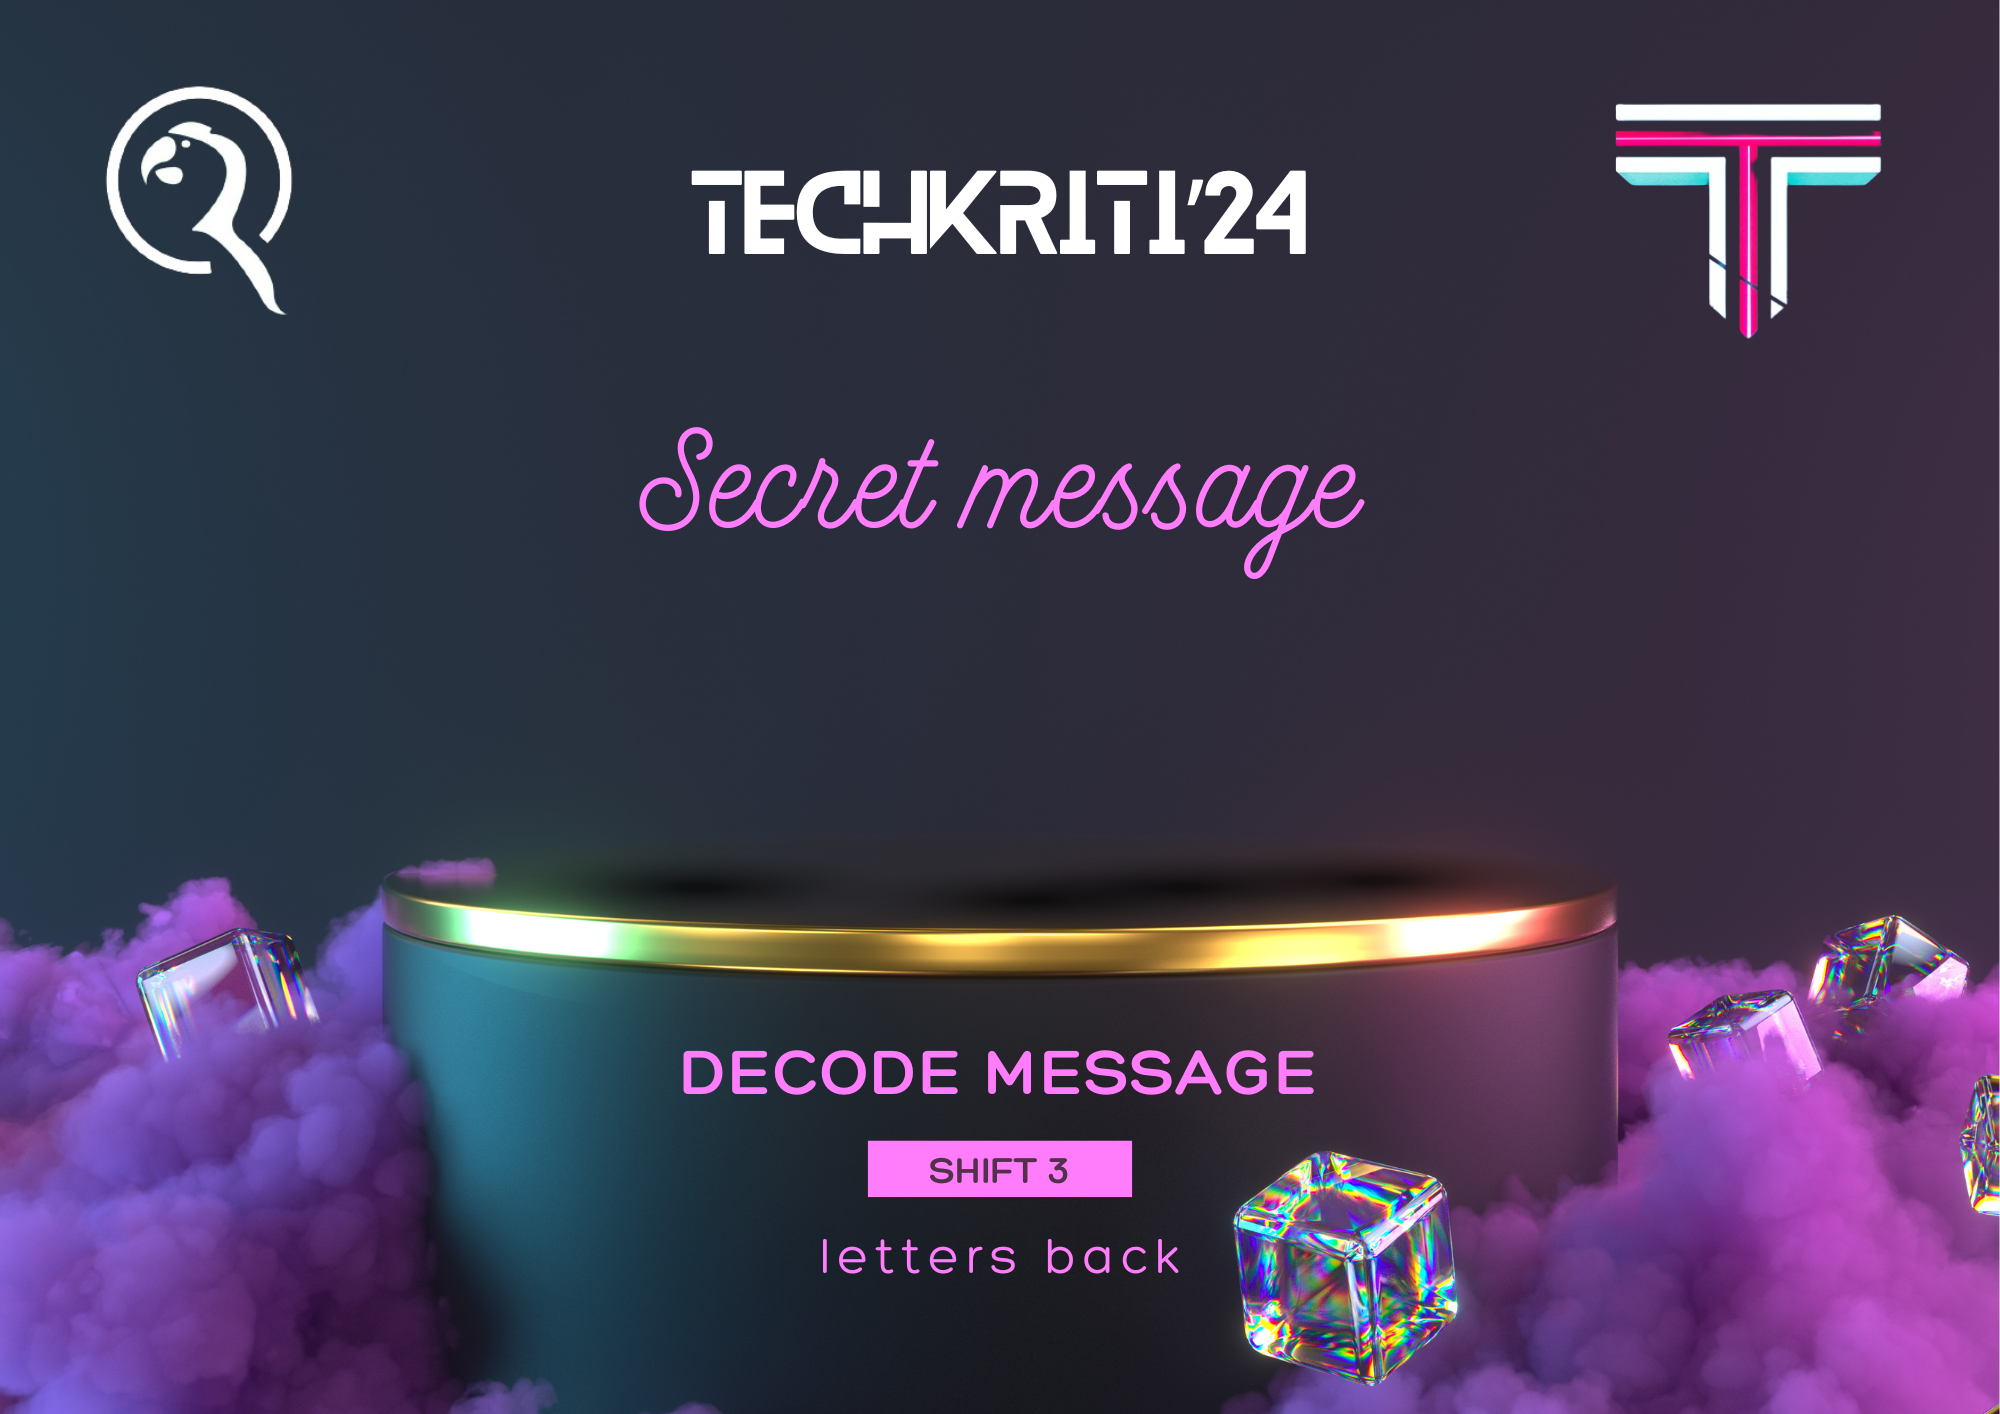
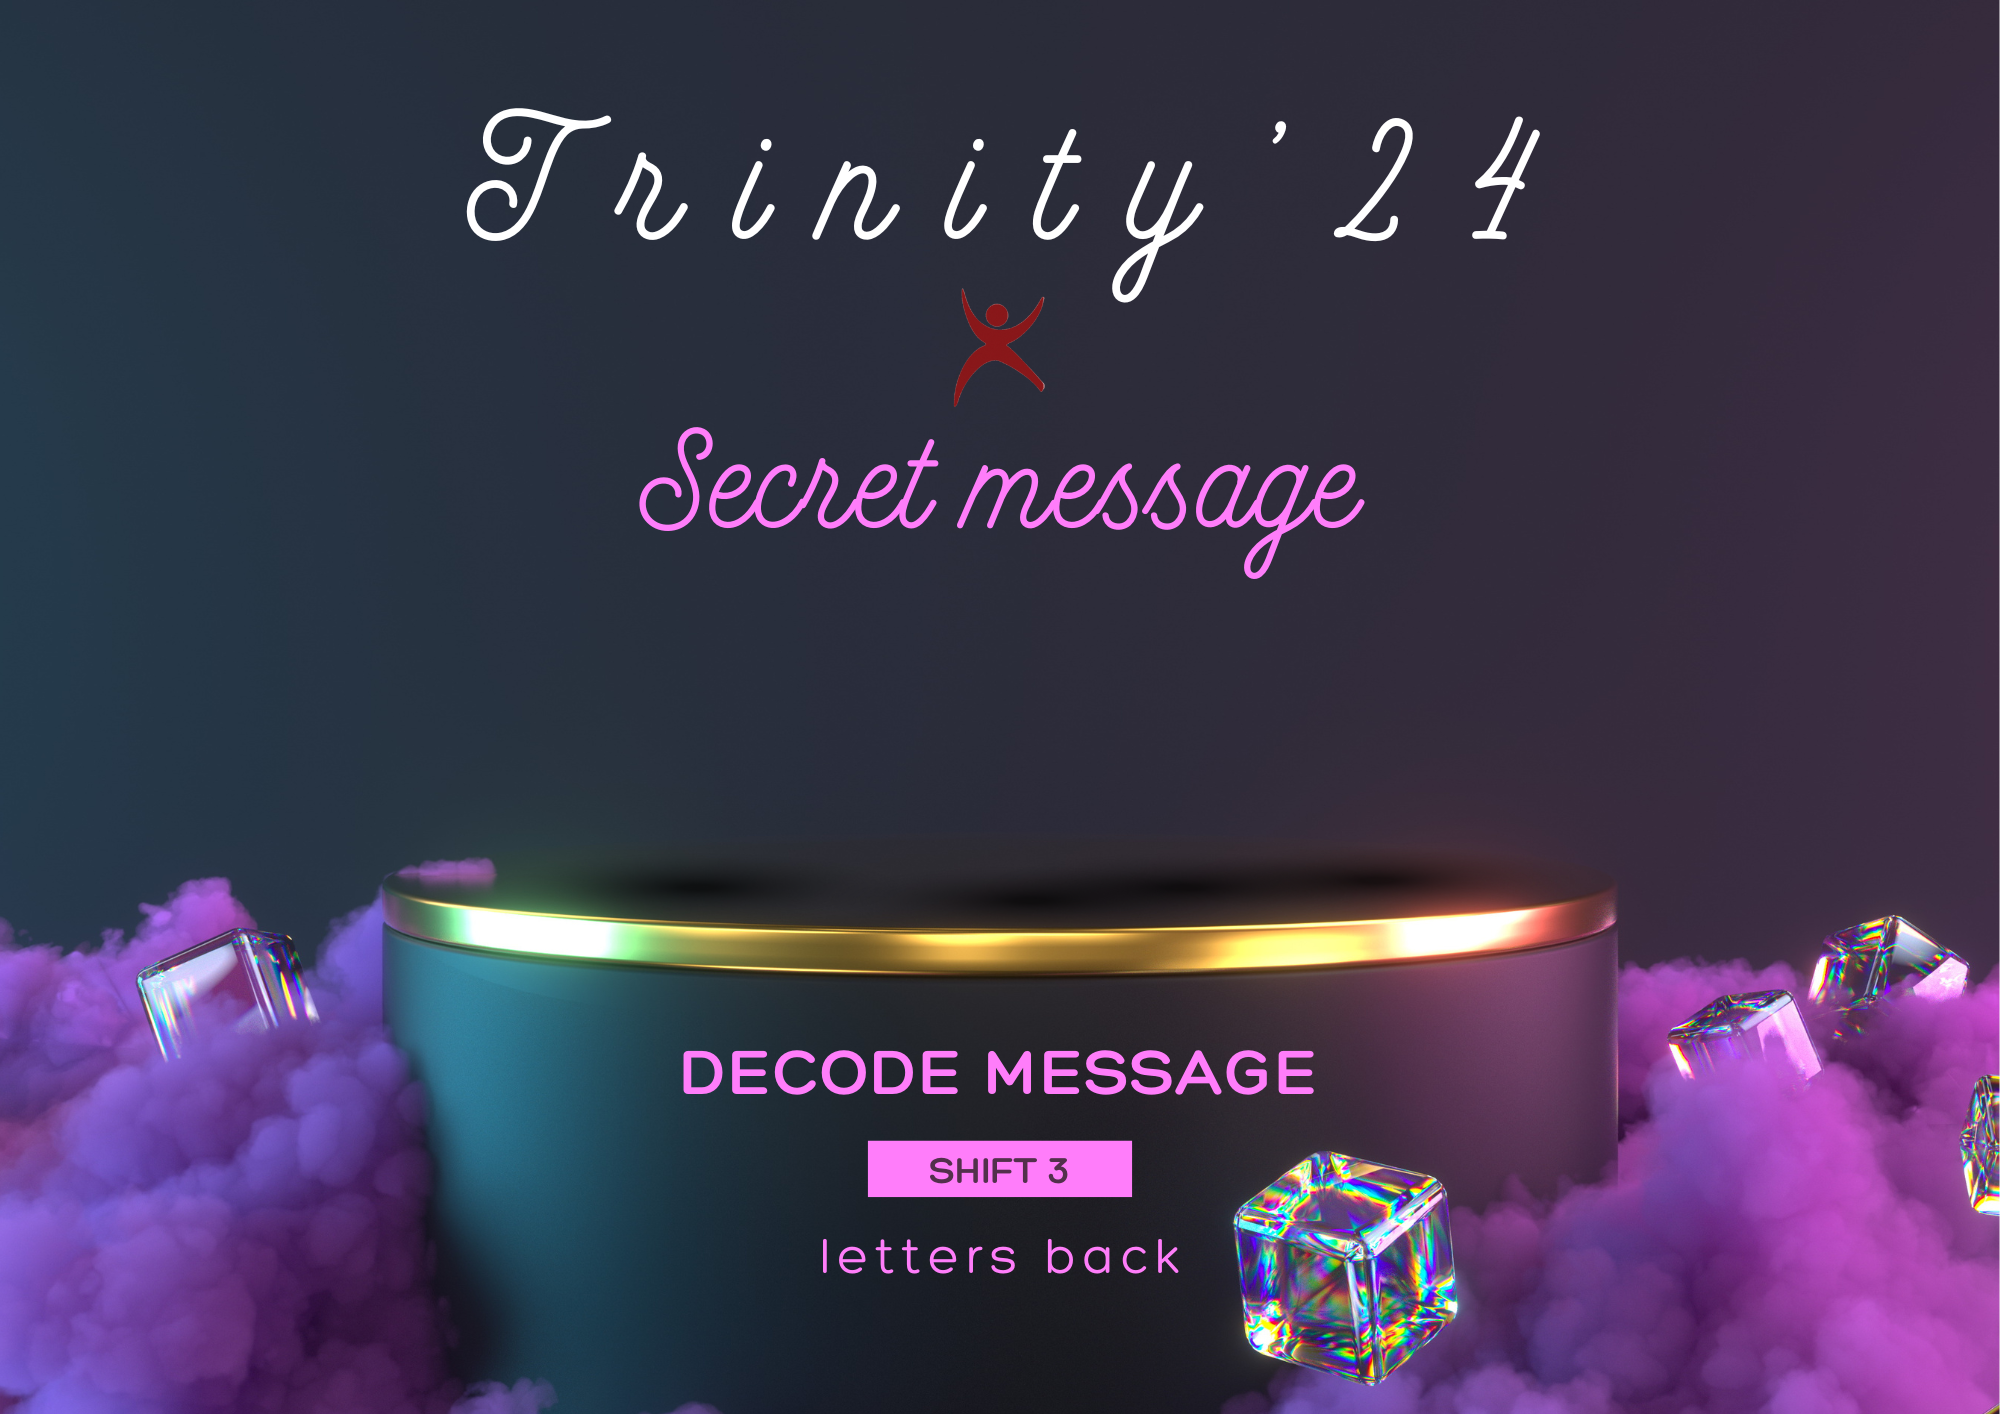
Trinity2k24

diff --git a/templates/index.html b/templates/index.html
@@ -6,7 +6,7 @@
     <meta name="viewport" content="width=device-width, initial-scale=1.0">
     <title>secret message</title>
     <link href="https://cdn.jsdelivr.net/npm/bootstrap@5.3.0/dist/css/bootstrap.min.css" rel="stylesheet">
-
+    <link rel="icon" href="{{url_for('static',filename='Logonew.png')}}">
     <style>
         .gradient-custom {  
             background: #6a11cb;
@@ -47,42 +47,17 @@
             top: 5%;
             border-radius: 30px;
         }
-
-        span img {
-            position: absolute;
-            height: 70px;
-            width: 105px;
-
-
+        h2 {
+            color: #F4ABC4;
         }
 
-        span {
-            position: absolute;
-            left: 30%;
-            top: 3%;
 
-        }
-
-        .balu img {
-            position: absolute;
-            left: 63%;
-            height: 80px;
-            width: 90px;
-            top: 4.5%;
-
-
-        }
     </style>
 </head>
 
 <body>
-    <div class="balu">
-        <img src="{{url_for('static',filename='Picsart_24-03-11_23-23-19-258-removebg-preview.png')}}" alt="">
 
-    </div>
-
-    <span><img src="{{url_for('static',filename='image (1).png')}}" alt=""></span>
-    <img src="{{url_for('static',filename='Picsart_24-03-11_23-23-19-258.png')}}" alt="">
+    <img src="{{url_for('static',filename='title.png')}}" alt="">
     <section class="vh-100 gradient-custom">
         <div class="container custom-container">
             <div class="row justify-content-center align-items-center">

diff --git a/main.py b/main.py
@@ -31,7 +31,7 @@ def sendmail(to_addr,secret):
 
     msg = MIMEMultipart()
     msg['Subject'] = 'Secret message from Someone'
-    msg['From'] = os.getenv('FROM')
+    msg['From'] = os.environ.get('EMAIL')
     msg['To'] = to_addr
 
     text = MIMEText("You got a secret message from someone...\n")
@@ -43,23 +43,23 @@ def sendmail(to_addr,secret):
     
     text=MIMEText('\nTo decode the message click the link:\nhttps://caesarcipher.net/')
     msg.attach(text)
-    text=MIMEText('\n\n\nCopy and Paste this:-\n\n'+secret+'\n\nPut key = 3 and decode \n\nYour memory from this Ornate:-\n')
+    text=MIMEText('\n\n\nCopy and Paste this:-\n\n'+secret+'\n\nPut key = 3 and decode \n\nYour memory from Trinity 2k24:-\n')
     msg.attach(text)
 
         
     with smtplib.SMTP(server) as connection:
         connection.starttls()
-        connection.login(msg['From'],os.getenv('PASSKEY'))
+        connection.login(msg['From'],os.environ.get('PASS_KEY'))
         connection.sendmail(msg['From'],msg['To'],msg.as_string())
 
-   
+
 
 
 def put_text(text):
     img=Image.open('Secret Message.png')
 
     draw=ImageDraw.Draw(img)
-    font=ImageFont.truetype("/usr/share/fonts/opentype/malayalam/Manjari-Bold.otf",80)
+    font=ImageFont.truetype("Manjari-Bold.woff",80)
 
 
     wrapped_text=textwrap.wrap(text,width=50)
@@ -80,7 +80,6 @@ def put_text(text):
     img.save('secret.png')
     
 
-    
 
 
 app=Flask(__name__)
